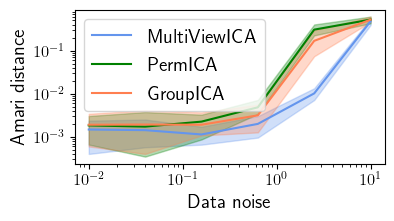
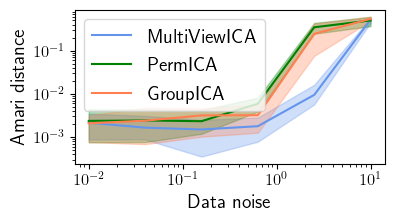
update expeé

Changed region(s): [[0.2132, 0.0814, 0.9442, 0.733]]

diff --git a/examples/synthetic_experiment.py b/examples/synthetic_experiment.py
@@ -19,24 +19,29 @@ algos = [
     ("PermICA", "green", permica),
     ("GroupICA", "coral", groupica),
 ]
+# sigmas: data noise
+sigmas = np.logspace(-2, 1, 6)
+n_seeds = 10
+# m: number of subjects
+# k: number of components
+# n: number of samples
+m, k, n = 10, 3, 1000
 plots = []
 for name, color, algo in algos:
     means = []
     lows = []
     highs = []
-    sigmas = np.logspace(-2, 1, 6)
     for sigma in sigmas:
         dists = []
-        for seed in range(10):
-            n, p, t = 10, 3, 1000
+        for seed in range(n_seeds):
             rng = np.random.RandomState(None)
-            S_true = rng.laplace(size=(p, t))
-            A_list = rng.randn(n, p, p)
-            noises = rng.randn(n, p, t)
+            S_true = rng.laplace(size=(k, n))
+            A_list = rng.randn(m, k, k)
+            noises = rng.randn(m, k, n)
             X = np.array([A.dot(S_true) for A in A_list])
             X += [sigma * A.dot(N) for A, N in zip(A_list, noises)]
             W, S = algo(X, tol=1e-4, max_iter=10000)
-            dist = np.mean([amari_d(W[i], A_list[i]) for i in range(n)])
+            dist = np.mean([amari_d(W[i], A_list[i]) for i in range(m)])
             dists.append(dist)
         dists = np.array(dists)
         mean = np.mean(dists)
